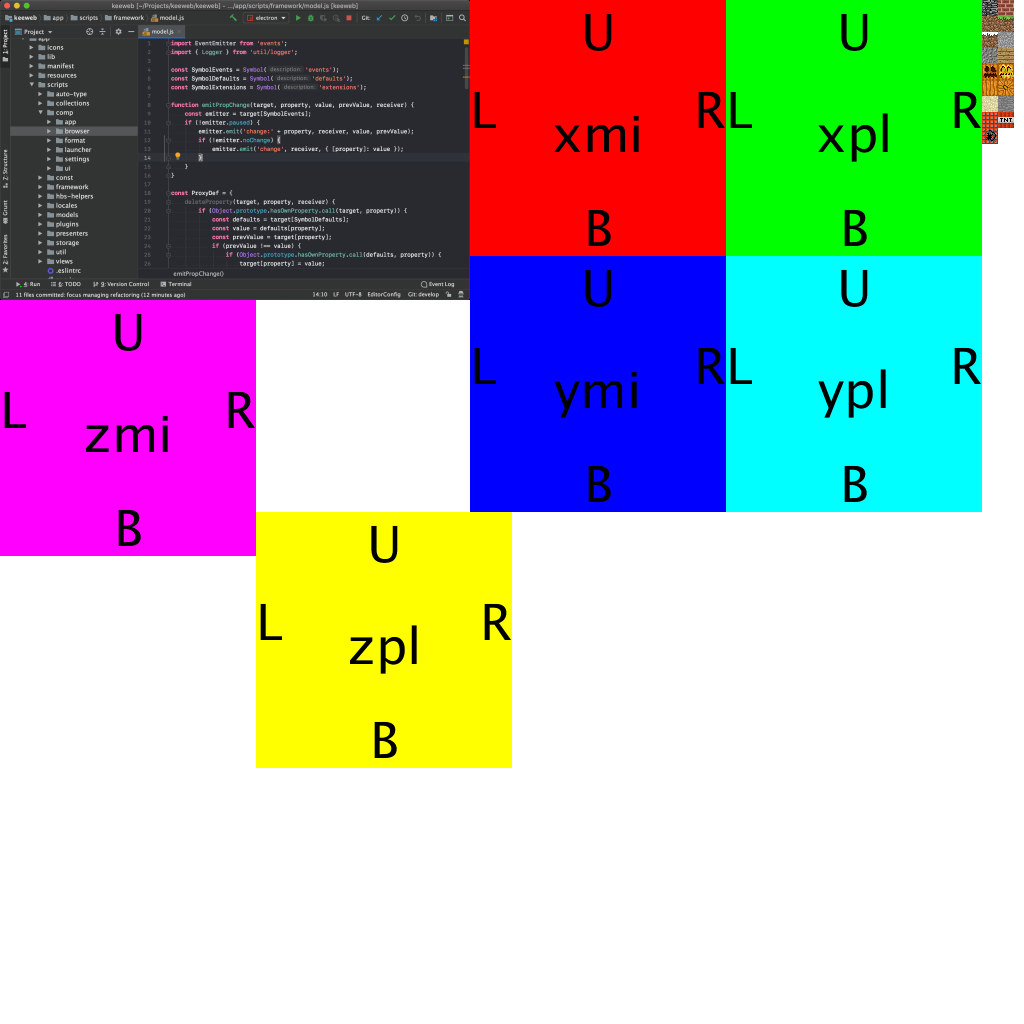
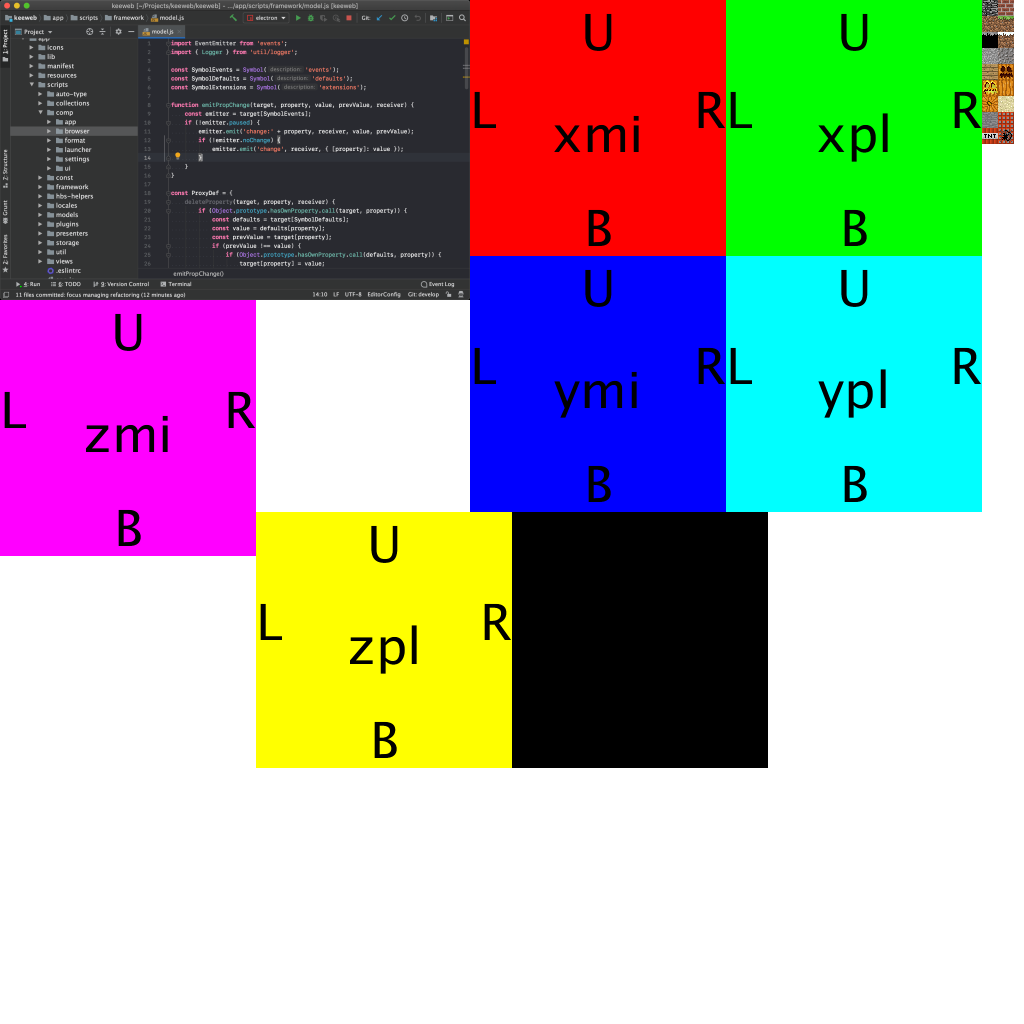
more stuf

Changed region(s): [[0.5, 0.5, 0.75, 0.75], [0.9375, 0.0312, 1.0, 0.1562]]

diff --git a/glmc4.client/src/main/java/p0nki/glmc4/client/GLMC4Client.java b/glmc4.client/src/main/java/p0nki/glmc4/client/GLMC4Client.java
@@ -4,29 +4,34 @@ import org.joml.Matrix4f;
 import org.joml.Vector3f;
 import org.lwjgl.glfw.GLFW;
 import p0nki.glmc4.client.assets.AtlasPosition;
-import p0nki.glmc4.client.assets.ResourceLocation;
 import p0nki.glmc4.client.assets.TextureAssembler;
+import p0nki.glmc4.client.gl.Window;
 import p0nki.glmc4.client.gl.*;
+import p0nki.glmc4.utils.Utils;
 
+import java.awt.*;
 import java.io.IOException;
-import java.net.URISyntaxException;
+import java.util.stream.DoubleStream;
+import java.util.stream.Stream;
 
 public class GLMC4Client {
 
-    public static void main(String[] args) throws IOException, URISyntaxException {
+    private static double[] genUVs(AtlasPosition xmi, AtlasPosition xpl, AtlasPosition ymi, AtlasPosition ypl, AtlasPosition zmi, AtlasPosition zpl) {
+        return Stream.of(xmi, xpl, ymi, ypl, zmi, zpl).flatMapToDouble(pos -> DoubleStream.of(pos.x0, pos.y0, pos.x1, pos.y0, pos.x0, pos.y1, pos.x1, pos.y1)).toArray();
+    }
+
+    public static void main(String[] args) throws IOException {
 //        ClientInstance instance = new ClientInstance(new ClientConfig("localhost", 3333));
         Window.initialize();
         Window.setTitle("OPENGL TEST");
-        Shader3D shader = new Shader3D("test");
+        Shader3D shader = new Shader3D("chunk");
         Mesh mesh = new Mesh();
-        Texture texture = new Texture(new ResourceLocation("block/preview_20379.png"));
-        TextureAssembler.assembleTextures("block");
-        AtlasPosition xmi = TextureAssembler.get("block", "faces:xmi");
-        AtlasPosition xpl = TextureAssembler.get("block", "faces:xpl");
-        AtlasPosition ymi = TextureAssembler.get("block", "faces:ymi");
-        AtlasPosition ypl = TextureAssembler.get("block", "faces:ypl");
-        AtlasPosition zmi = TextureAssembler.get("block", "faces:zmi");
-        AtlasPosition zpl = TextureAssembler.get("block", "faces:zpl");
+        TextureAssembler blocks = TextureAssembler.assembleTextures("block");
+        AtlasPosition grassSide = blocks.get("grass:side");
+        AtlasPosition grassTop = blocks.get("grass:top");
+        AtlasPosition grassOverlay = blocks.get("grass:side_overlay");
+        AtlasPosition dirt = blocks.get("dirt");
+        AtlasPosition none = blocks.get("none");
         mesh.addBuffer(0, new double[]{
                 0, 1, 0,
                 0, 1, 1,
@@ -58,37 +63,12 @@ public class GLMC4Client {
                 0, 0, 1,
                 1, 0, 1,
         }, 3);
-        mesh.addBuffer(1, new double[]{
-                xmi.x0, xmi.y0,
-                xmi.x1, xmi.y0,
-                xmi.x0, xmi.y1,
-                xmi.x1, xmi.y1,
-
-                xpl.x0, xpl.y0,
-                xpl.x1, xpl.y0,
-                xpl.x0, xpl.y1,
-                xpl.x1, xpl.y1,
-
-                ymi.x0, ymi.y0,
-                ymi.x1, ymi.y0,
-                ymi.x0, ymi.y1,
-                ymi.x1, ymi.y1,
-
-                ypl.x0, ypl.y0,
-                ypl.x1, ypl.y0,
-                ypl.x0, ypl.y1,
-                ypl.x1, ypl.y1,
-
-                zmi.x0, zmi.y0,
-                zmi.x1, zmi.y0,
-                zmi.x0, zmi.y1,
-                zmi.x1, zmi.y1,
-
-                zpl.x0, zpl.y0,
-                zpl.x1, zpl.y0,
-                zpl.x0, zpl.y1,
-                zpl.x1, zpl.y1,
-        }, 2);
+        Color grassColor = new Color(137, 206, 88);//gross green
+//        Color grassColor = new Color(106, 112, 57);//swamp
+        mesh.addBuffer(1, genUVs(grassSide, grassSide, dirt, grassTop, grassSide, grassSide), 2);
+        mesh.addBuffer(2, Utils.flatten(Utils.repeatElements(4, Stream.of(Color.WHITE, Color.WHITE, Color.WHITE, grassColor, Color.WHITE, Color.WHITE))), 3);
+        mesh.addBuffer(3, genUVs(grassOverlay, grassOverlay, none, none, grassOverlay, grassOverlay), 2);
+        mesh.addBuffer(4, Utils.flatten(Utils.repeatElements(4, Stream.of(grassColor, grassColor, Color.WHITE, Color.WHITE, grassColor, grassColor))), 3);
         mesh.setIndices(new int[]{
                 0, 1, 2,
                 1, 2, 3,
@@ -117,7 +97,7 @@ public class GLMC4Client {
             GLUtils.clear();
             RenderContext ctx = new RenderContext(perspective, view);
             shader.bind(ctx);
-            shader.setTexture("tex", TextureAssembler.get("block"), 0);
+            shader.setTexture("tex", blocks.getTexture(), 0);
             mesh.render(RenderMode.TRIANGLES);
             Window.endFrame();
         }

diff --git a/glmc4.client/src/main/java/p0nki/glmc4/client/assets/TextureAssembler.java b/glmc4.client/src/main/java/p0nki/glmc4/client/assets/TextureAssembler.java
@@ -99,7 +99,10 @@ public class TextureAssembler {
         throw new AssertionError(identifier);
     }
 
+    private final String directory;
+
     private TextureAssembler(String directory) throws IOException {
+        this.directory = directory;
         identifiers = listFiles(directory, Objects.requireNonNull(ClassLoader.getSystemClassLoader().getResource(directory)).getFile());
         images = new HashMap<>();
         for (String s : identifiers.keySet()) {
@@ -135,29 +138,33 @@ public class TextureAssembler {
         writer.close();
     }
 
-    private static final Map<String, Texture> loadedTextures = new HashMap<>();
+    //    private static final Map<String, Texture> loadedTextures = new HashMap<>();
     private static final Map<String, TextureAssembler> assemblers = new HashMap<>();
+    private Texture texture = null;
 
-    public static Texture get(String directory) throws FileNotFoundException {
-        if (!loadedTextures.containsKey(directory))
-            loadedTextures.put(directory, new Texture(new LocalLocation("atlas/" + directory + ".png")));
-        return loadedTextures.get(directory);
+    public Texture getTexture() throws FileNotFoundException {
+        if (texture == null) texture = new Texture(new LocalLocation("atlas/" + directory + ".png"));
+        return texture;
     }
 
-    private static AtlasPosition attemptGet(String directory, String identifier) {
-        if (!assemblers.containsKey(directory)) throw new AssertionError(directory);
-        TextureAssembler assembler = assemblers.get(directory);
-        Image image = assembler.images.get(directory + ":" + identifier);
+    public static TextureAssembler getAssembler(String directory) {
+        return assemblers.get(directory);
+    }
+
+    private AtlasPosition attemptGet(String identifier) {
+        Image image = images.get(directory + ":" + identifier);
         if (image == null) return null;
-        return new AtlasPosition(image.x, image.y, image.width, image.height, assembler.width, assembler.height);
+        return new AtlasPosition(image.x, image.y, image.width, image.height, width, height);
     }
 
-    public static AtlasPosition get(String directory, String identifier) {
-        return Utils.firstNonNull(attemptGet(directory, identifier), attemptGet(directory, identifier + ".png"));
+    public AtlasPosition get(String identifier) {
+        return Utils.firstNonNull(attemptGet(identifier), attemptGet(identifier + ".png"));
     }
 
-    public static void assembleTextures(String directory) throws IOException {
-        assemblers.put(directory, new TextureAssembler(directory));
+    public static TextureAssembler assembleTextures(String directory) throws IOException {
+        TextureAssembler assembler = new TextureAssembler(directory);
+        assemblers.put(directory, assembler);
+        return assembler;
     }
 
 }

diff --git a/glmc4.common/src/main/java/p0nki/glmc4/tag/Tag.java b/glmc4.common/src/main/java/p0nki/glmc4/tag/Tag.java
@@ -5,6 +5,7 @@ import p0nki.glmc4.stream.IOutputStream;
 import p0nki.glmc4.utils.AssertUtils;
 
 import java.io.IOException;
+import java.nio.ByteBuffer;
 import java.util.Collection;
 import java.util.HashMap;
 import java.util.Map;
@@ -67,6 +68,7 @@ public interface Tag {
     int BOOLEAN = 7;
     int ARRAY = 8;
     int MAP = 9;
+    int BYTE_ARRAY = 10;
     Map<Integer, TagSerializer> SERIALIZERS = Map.of(
             CHAR, new TagSerializer() {
                 @Override
@@ -214,6 +216,19 @@ public interface Tag {
                     }
                     return new TagMap(value);
                 }
+            },
+            BYTE_ARRAY, new TagSerializer() {
+                @Override
+                public void write(IOutputStream output, Tag element) throws IOException {
+                    output.writeInt(BYTE_ARRAY);
+                    output.writeByteArray(element.asByteArray());
+                }
+
+                @Override
+                public Tag read(IInputStream input) throws IOException {
+                    AssertUtils.shouldBeTrue(input.readInt() == BYTE_ARRAY);
+                    return new TagByteArray(input.readByteArray());
+                }
             }
     );
 
@@ -246,6 +261,8 @@ public interface Tag {
 
     Map<String, Tag> asMap();
 
+    byte[] asByteArray();
+
     boolean isChar();
 
     boolean isInt();
@@ -263,6 +280,8 @@ public interface Tag {
     boolean isArray();
 
     boolean isMap();
+
+    boolean isByteArray();
 
     default String prettyprint() {
         return prettyprint("");

diff --git a/glmc4.client/src/main/java/p0nki/glmc4/client/gl/Shader.java b/glmc4.client/src/main/java/p0nki/glmc4/client/gl/Shader.java
@@ -3,13 +3,11 @@ package p0nki.glmc4.client.gl;
 import org.joml.Matrix4f;
 import org.joml.Vector3f;
 import org.lwjgl.BufferUtils;
+import p0nki.glmc4.client.assets.ResourceLocation;
 
 import java.io.IOException;
-import java.net.URISyntaxException;
 import java.nio.FloatBuffer;
 import java.nio.file.Files;
-import java.nio.file.Path;
-import java.util.Objects;
 
 import static org.lwjgl.opengl.GL41.*;
 
@@ -48,9 +46,9 @@ public class Shader {
         }
     }
 
-    public Shader(String name) throws URISyntaxException, IOException {
-        String vertCode = Files.readString(Path.of(Objects.requireNonNull(ClassLoader.getSystemClassLoader().getResource(name + ".vert")).toURI()));
-        String fragCode = Files.readString(Path.of(Objects.requireNonNull(ClassLoader.getSystemClassLoader().getResource(name + ".frag")).toURI()));
+    public Shader(String name) throws IOException {
+        String vertCode = Files.readString(new ResourceLocation("shader/" + name + ".vert").getFile().toPath());
+        String fragCode = Files.readString(new ResourceLocation("shader/" + name + ".frag").getFile().toPath());
 
         this.name = name;
         int vert = glCreateShader(GL_VERTEX_SHADER);

diff --git a/glmc4.common/src/main/java/p0nki/glmc4/utils/Utils.java b/glmc4.common/src/main/java/p0nki/glmc4/utils/Utils.java
@@ -1,5 +1,11 @@
 package p0nki.glmc4.utils;
 
+import java.awt.*;
+import java.util.function.Supplier;
+import java.util.stream.DoubleStream;
+import java.util.stream.IntStream;
+import java.util.stream.Stream;
+
 public class Utils {
 
     @SafeVarargs
@@ -8,6 +14,23 @@ public class Utils {
             if (t != null) return t;
         }
         throw new NullPointerException("" + values.length);
+    }
+
+    public static double[] flatten(Stream<Color> colors) {
+        return colors.flatMapToDouble(color -> DoubleStream.of(color.getRed() / 255.0, color.getGreen() / 255.0, color.getBlue() / 255.0))
+                .toArray();
+    }
+
+//    public static double[] flatten(Color... colors) {
+//        return flatten(List.of(colors).stream());
+//    }
+
+    public static <T> Stream<T> repeatElements(int x, Stream<T> stream) {
+        return stream.flatMap(value -> IntStream.range(0, x).mapToObj(i -> value));
+    }
+
+    public static <T> Stream<T> repeatStream(int x, Supplier<Stream<T>> stream) {
+        return IntStream.range(0, x).boxed().flatMap(integer -> stream.get());
     }
 
 }

diff --git a/glmc4.common/src/main/java/p0nki/glmc4/tag/TagImpl.java b/glmc4.common/src/main/java/p0nki/glmc4/tag/TagImpl.java
@@ -55,6 +55,11 @@ public abstract class TagImpl implements Tag {
     }
 
     @Override
+    public byte[] asByteArray() {
+        throw new UnsupportedOperationException("Unimplemented method / invalid operation");
+    }
+
+    @Override
     public boolean isChar() {
         return false;
     }
@@ -96,6 +101,11 @@ public abstract class TagImpl implements Tag {
 
     @Override
     public boolean isMap() {
+        return false;
+    }
+
+    @Override
+    public boolean isByteArray() {
         return false;
     }
 

diff --git a/glmc4.common/src/main/java/p0nki/glmc4/stream/TextOutputStream.java b/glmc4.common/src/main/java/p0nki/glmc4/stream/TextOutputStream.java
@@ -1,5 +1,6 @@
 package p0nki.glmc4.stream;
 
+import java.io.IOException;
 import java.io.OutputStream;
 import java.io.PrintWriter;
 
@@ -9,6 +10,12 @@ public class TextOutputStream implements IOutputStream {
 
     public TextOutputStream(OutputStream output) {
         writer = new PrintWriter(output);
+    }
+
+    @Override
+    public void writeByteArray(byte[] value) {
+        writeInt(value.length);
+        for (byte b : value) writeInt(b);
     }
 
     @Override

diff --git a/glmc4.common/src/main/java/p0nki/glmc4/stream/ByteOutputStream.java b/glmc4.common/src/main/java/p0nki/glmc4/stream/ByteOutputStream.java
@@ -28,6 +28,12 @@ public class ByteOutputStream implements IOutputStream {
     }
 
     @Override
+    public void writeByteArray(byte[] value) throws IOException {
+        writeInt(value.length);
+        output.write(value);
+    }
+
+    @Override
     public void writeChar(char c) throws IOException {
         output.write(ByteBuffer.allocate(Character.BYTES).putChar(c).array());
     }

diff --git a/glmc4.client/src/main/java/p0nki/glmc4/client/gl/GLUtils.java b/glmc4.client/src/main/java/p0nki/glmc4/client/gl/GLUtils.java
@@ -5,7 +5,7 @@ import org.lwjgl.opengl.GL41;
 public class GLUtils {
 
     public static void clear() {
-        GL41.glClearColor(0.2F, 0.5F, 0.8F, 1);
+        GL41.glClearColor(0.0F, 0.0F, 0.0F, 1);
         GL41.glClear(GL41.GL_DEPTH_BUFFER_BIT | GL41.GL_COLOR_BUFFER_BIT);
         GL41.glDepthFunc(GL41.GL_LESS);
         GL41.glEnable(GL41.GL_DEPTH_TEST);

diff --git a/glmc4.client/src/main/java/p0nki/glmc4/client/gl/Shader2D.java b/glmc4.client/src/main/java/p0nki/glmc4/client/gl/Shader2D.java
@@ -1,11 +1,10 @@
 package p0nki.glmc4.client.gl;
 
 import java.io.IOException;
-import java.net.URISyntaxException;
 
 public class Shader2D extends Shader {
 
-    public Shader2D(String name) throws IOException, URISyntaxException {
+    public Shader2D(String name) throws IOException {
         super(name);
     }
 

diff --git a/glmc4.client/src/main/java/p0nki/glmc4/client/gl/Shader3D.java b/glmc4.client/src/main/java/p0nki/glmc4/client/gl/Shader3D.java
@@ -1,11 +1,10 @@
 package p0nki.glmc4.client.gl;
 
 import java.io.IOException;
-import java.net.URISyntaxException;
 
 public class Shader3D extends Shader {
 
-    public Shader3D(String name) throws IOException, URISyntaxException {
+    public Shader3D(String name) throws IOException {
         super(name);
     }
 

diff --git a/glmc4.common/src/main/java/p0nki/glmc4/stream/ByteInputStream.java b/glmc4.common/src/main/java/p0nki/glmc4/stream/ByteInputStream.java
@@ -30,6 +30,11 @@ public class ByteInputStream implements IInputStream {
     }
 
     @Override
+    public byte[] readByteArray() throws IOException {
+        return stream.readNBytes(readInt());
+    }
+
+    @Override
     public void close() throws IOException {
         stream.close();
     }
